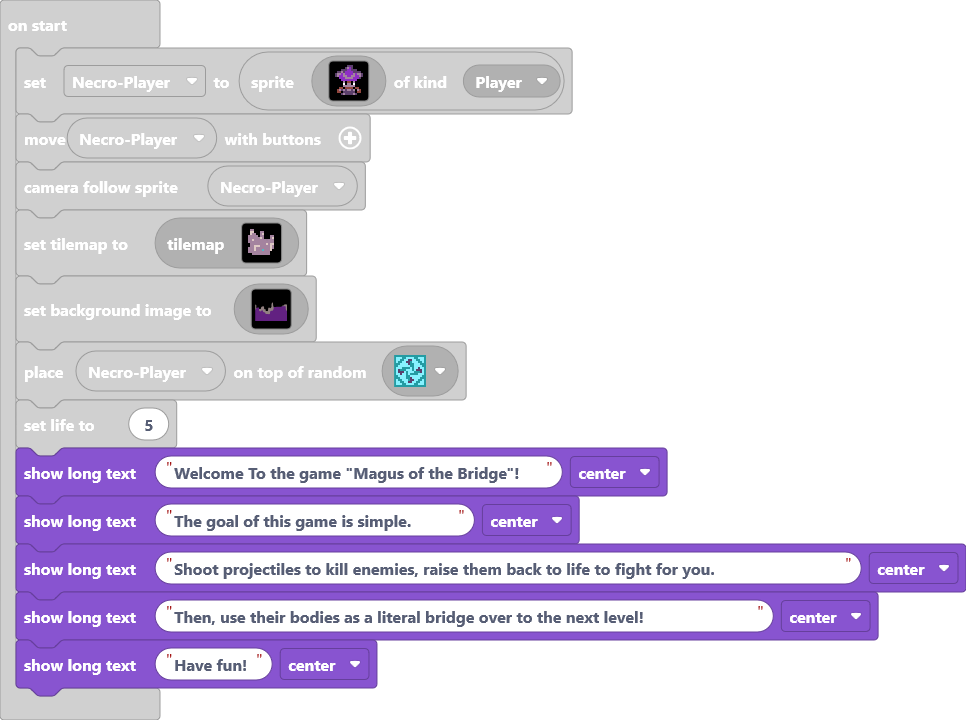
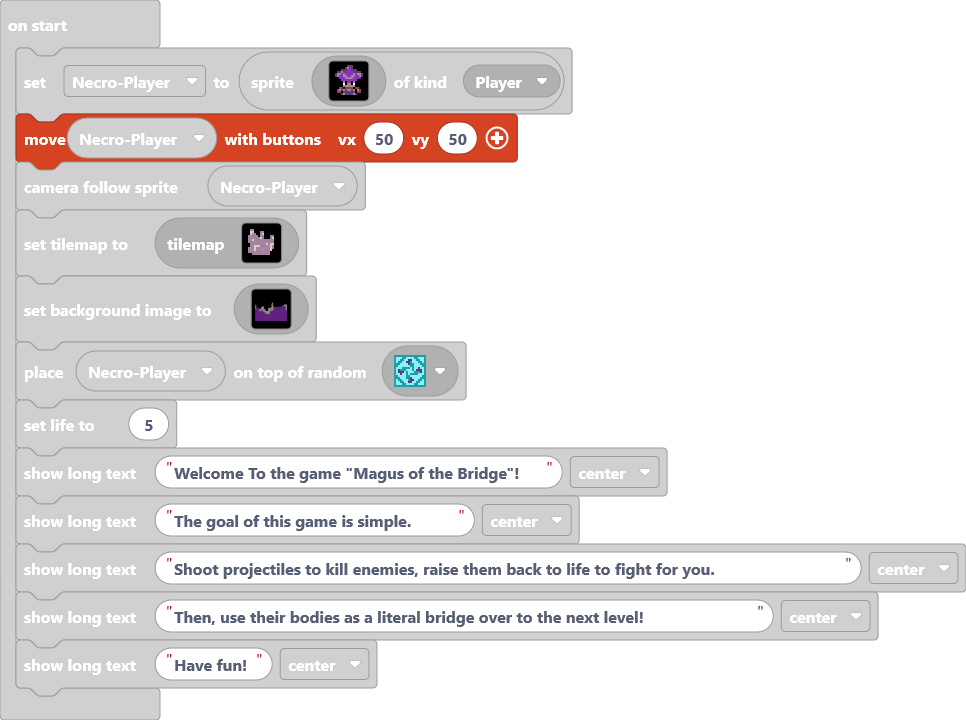
Slowed down player.

Changed region(s): [[0.0, 0.6111, 1.0, 0.9778], [0.0, 0.1528, 0.559, 0.2444]]

diff --git a/main.ts b/main.ts
@@ -7,7 +7,7 @@ controller.A.onEvent(ControllerButtonEvent.Pressed, function () {
 let Fireball: Sprite = null
 let NecroPlayer: Sprite = null
 NecroPlayer = sprites.create(assets.image`Necro-Player`, SpriteKind.Player)
-controller.moveSprite(NecroPlayer)
+controller.moveSprite(NecroPlayer, 50, 50)
 scene.cameraFollowSprite(NecroPlayer)
 tiles.setCurrentTilemap(tilemap`level1`)
 scene.setBackgroundImage(img`
